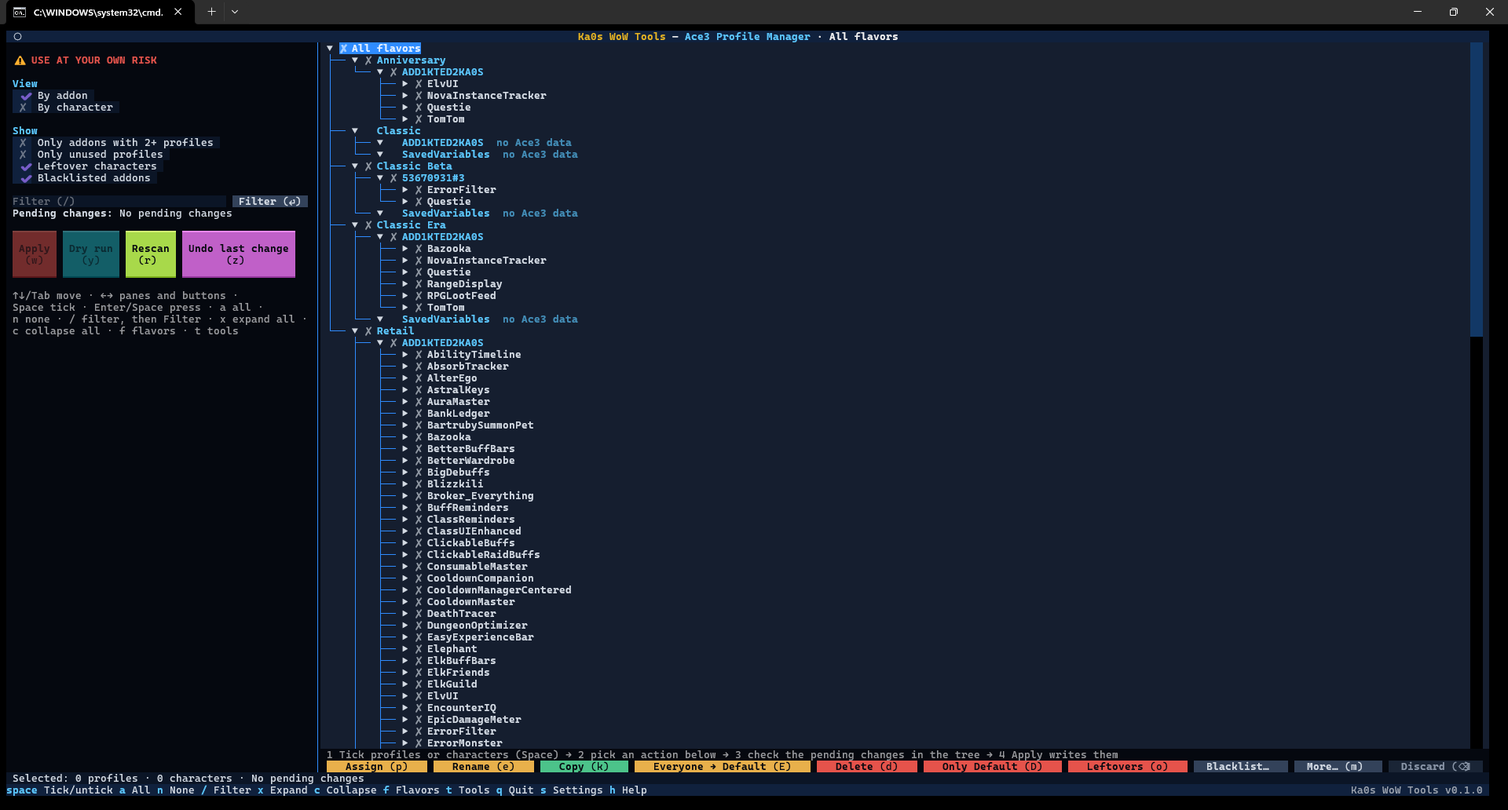
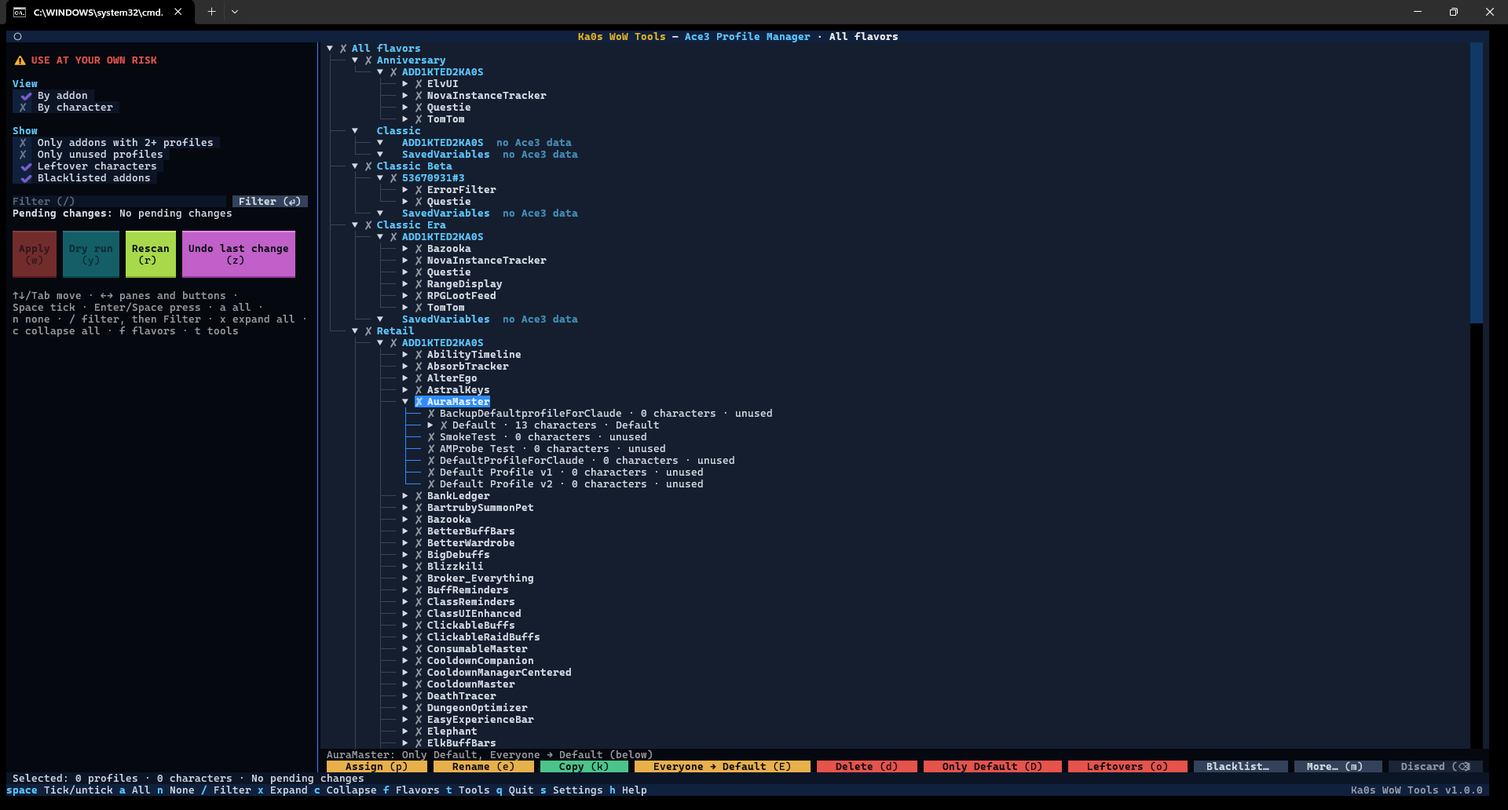
release: v1.0.0
Claude-Session: https://claude.ai/code/session_01DkzYWY5gDgShiN2PKv2P43

diff --git a/wowtools/__init__.py b/wowtools/__init__.py
@@ -1,4 +1,4 @@
 """Ka0s WoW Tools: out-of-game companion tools for World of Warcraft."""
 from __future__ import annotations
 
-__version__ = "0.1.0"
+__version__ = "1.0.0"

diff --git a/CHANGELOG.md b/CHANGELOG.md
@@ -4,133 +4,7 @@ Every change to Ka0s WoW Tools that you'd notice, newest first. The format follo
 [Keep a Changelog](https://keepachangelog.com/en/1.1.0/), and version numbers follow
 [Semantic Versioning](https://semver.org/).
 
-## [Unreleased]
-
-### Added
-
-- **WTF Cleaner** and **Ace3 Profile Manager**
-  - Before the first scan they ask you to accept a **USE AT YOUR OWN RISK** warning, like the Saved Variables
-    Browser: it says what the tool deletes or rewrites, that a backup and Undo are there, and to close WoW first.
-    **I understand** goes on, **Back** returns to the game versions. It's asked once each time you start the app.
-  - A blacklisted addon's lines show `⊘` where the tick goes, greyed like the line, so you can see why they have no
-    tick. In the Ace3 Profile Manager that's in both views, By addon and By character.
-- **Every tool**
-  - `t` goes back to the tool menu from any screen and any popup, like `q` quits: the game version and account
-    pickers, the help, the changelog, the settings, the warnings, the USE AT YOUR OWN RISK warning (it asks again
-    next time) and every "are you sure?" window, not only reviews and results.
-    Typing `t` in a text box still types it, a run that is writing files has to finish first, and with changes
-    staged but not applied it asks first. On the tool menu it does nothing. `Esc` still works as before.
-- **WTF Cleaner**, **Ace3 Profile Manager** and **Saved Variables Browser**
-  - The **USE AT YOUR OWN RISK** warning has a **Don't show this warning again for this tool** box (`Tab` to it,
-    `Space` to tick, `Enter` still means **I understand**). Ticked with **I understand**, the warning is never
-    shown again for that tool; **Back** never saves it. **Show the USE AT YOUR OWN RISK warning** in the tool's
-    settings (`s`) turns it back on.
-
-### Changed
-
-- **Docs**
-  - The release zip holds only what you need to run the app and read about it: the program, its libraries, the
-    launchers, the README, the changelog, the license and the five guides with their pictures. The developer
-    documentation, tests and scripts stay on GitHub, and the README no longer has a section for developers.
-  - New screenshots of every tool: the README shows the tool menu, the general settings, the USE AT YOUR OWN RISK
-    warning and each tool's review screen, and each tool's guide shows its review screen, its confirm or progress window
-    and its results.
-  - The README, every guide and the in-app help now match the app: when the USE AT YOUR OWN RISK warning appears
-    (after you pick a game version and account, before the first scan), what a WTF Cleaner **Dry run** does and
-    skips, `t` and `Esc` on every screen, the settings as the settings screen names them, and where the backups
-    go. The WTF Cleaner guide has a section on the warning, and the help on the tool menu explains it and the
-    **lime** Rescan button.
-- **The app**
-  - `q` quits from any screen and any popup: the game version and account pickers, the help, the changelog, the
-    settings, the warnings and every "are you sure?" window, not only the tool menu, reviews and results. On the
-    help and the changelog `q` used to go back; `Esc` still does. Typing `q` in a text box still types it, a run
-    that is writing files still has to finish first, and with changes staged but not applied it asks first.
-    While any "discard your changes?" question is open, `q` waits for your answer instead of asking again.
-- **Ace3 Profile Manager**
-  - The **Apply** and **Dry run** confirms no longer print one red line per addon warning (28 lines could push
-    **Yes** and **No** off the window): the warnings sit under one line, **⚠ 28 warnings (Space or click to
-    expand)**. Open it (`Tab` to it, then `Space`, `Enter` or a click) to see each warning once, with the game
-    version and account under it, then the addons; `x` opens everything and the list scrolls inside the window.
-    The **Notes** box after a change lists its notes the same way (one or two notes show at once), and what a
-    change could not do is a **Not done** box listed the same way, every addon in it (it was a notification cut
-    at 8 lines). Two databases of one addon, or a character's own file, are told apart in these lists.
-  - **Leftovers** (`o`) is now one press: it ticks every leftover character the tree shows, then asks to remove
-    them, listing them under each addon. There's no need to tick them first. **No** keeps the ticks; with none
-    shown it says so and changes nothing.
-  - The **Delete** and **Assign** windows list what they change under one line, such as **12 profiles (Space or
-    click to expand)**, instead of one line per addon (82 addons made a long list to scroll past). Open it to see
-    each addon with its profiles or characters; the profile list, the name box and the buttons stay on screen.
-- **Interface Backup**
-  - Backups and safety backups now go into a `backup` folder inside `interface-backup`, next to `journal`, instead
-    of sitting loose beside it. Zips made by an earlier version are moved there once, the first time you open
-    the review. A zip that can't be moved (its name is already taken there, or the move fails) stays where it is
-    and is listed, restored and cleaned up as before. The log says so once per session, and the move is tried
-    again each time the review scans. **Undo** of an earlier restore finds its safety backup in the new folder.
-- **Saved Variables Browser**
-  - The **USE AT YOUR OWN RISK** warning is asked once each time you start the app, no longer every time you open
-    the tool. **Back** still doesn't count: it asks again next time.
-
-### Fixed
-
-- **Screenshot Organizer**
-  - The scan progress shows as soon as you pick the game version, starting with "Checking the destination
-    folder". A slow or sleeping destination drive no longer freezes an empty screen for a few seconds. A
-    destination that isn't allowed is reported as before.
-- **The app**
-  - Messages that pop up at the bottom right now start at the same place on every screen, just above the bars at
-    the bottom (and above the action bar under a tree), and several stack upward without covering each other. The
-    Ace3 Profile Manager's "what this button would do" box is the lowest of that stack, so a message no longer
-    lands on top of it. On a popup they start above its buttons, text box, tick box or list, so a message never
-    covers what you're about to press or type into.
-  - Scanning or rescanning no longer moves the bars under the tree to the top of the pane: the Ace3 Profile
-    Manager's guide and action bar, and the Saved Variables Browser's action bar, stay at the bottom while the scan
-    runs. When a scan fails, its message takes one line at the bottom (the notice shows it in full), so a long
-    error doesn't push the bars up either.
-  - Pressing Ctrl+C while `wow-tools update` (or an automatic update at start) is replacing a zip install's files
-    now puts the version you had back instead of leaving it half replaced, and says the update stopped. Any other
-    unexpected error while backing up or replacing the files is reported instead of crashing, and a half-done
-    replace is rolled back the same way. If putting it back fails too, the message names the folder your previous
-    version is saved in, and an automatic update then quits instead of opening the menu. A Ctrl+C after the new
-    version is in place (while old backups are tidied up) no longer reports the update as stopped.
-  - When the app cannot start because a folder in `logs/` can't be read, it no longer leaves its lock behind, so
-    the next start doesn't warn that another copy may be running. An unreadable log folder is now skipped instead.
-  - When your WoW folder's path has letters like é or ü and WoW is running, an Apply or Undo now refuses with the
-    usual "WoW is running" message instead of stopping with an unexpected error.
-  - Every file the app writes in place (a SavedVariables file, a settings file, an unfinished-change reminder) is
-    now flushed to the disk before it replaces the old one. A power cut or a system crash right after an Apply,
-    an Undo or a settings change leaves the old file or the new one, never an empty file. Each Undo journal line
-    and each safety backup zip is flushed the same way before the change it covers. So is a screenshot copied to
-    another drive, before its original is deleted, and a file a WTF Cleaner Undo puts back.
-  - The README, every tool's guide and the message about a release with no checksum now say that comments you
-    add to a settings file in `config` aren't kept: the app rewrites the file whenever it saves a setting or the
-    game version you pick. Edit these files with the app closed.
-- **WTF Cleaner**
-  - The result of a clean across several game versions names the run journal once, above the game versions, with
-    the hint that **Undo last clean** puts the files back. It was listed again in every game version's block.
-  - Looking up the clean **Undo** can put back, and the "An earlier clean did not finish" check, no longer hold
-    the screen before the scan shows.
-  - A file WoW rewrites while a clean is backing up the WTF folder is now kept (shown as changed since the scan)
-    instead of deleted, so its newer data is never lost.
-  - When another program (a virus scanner or OneDrive) keeps the cleaner from removing its marker file after a
-    clean that finished, the result now says so (a **Crash marker** row), and the next start's "An earlier clean
-    did not finish" message says such a clean needs nothing restored. **Dismiss** on that message now tells you
-    when it could not remove the file either, instead of closing as if it had while new cleans stay refused.
-- **Interface Backup**
-  - On Windows, **Undo** after a restore that removed a symlinked addon folder now makes the symlink again to
-    the path it had (`C:\...`), not to the same path written with a `\\?\` prefix. The Undo journal records
-    the path as you made it, too. A link to a mounted volume that **Undo** cannot make again is now listed as one
-    to make by hand, instead of being made to the wrong place.
-- **Ace3 Profile Manager and Saved Variables Browser**
-  - **Put the originals back** after an unfinished change now works when you run the app from the other system
-    (Windows or WSL) than the one the change was started from: the files are found in the WoW folder you set. If
-    that game version is not in your WoW folder, nothing is changed and the unfinished change is still offered,
-    instead of every file being reported as gone and the reminder cleared.
-  - When another program (a virus scanner or OneDrive) keeps the app from removing its unfinished-change reminder
-    after an Apply that finished, the result now says so, and **Put the originals back** on the next scan only
-    removes the reminder instead of undoing the finished change. If the reminder still can't be removed then, or
-    after **Leave as is**, a notice says so instead of reporting it removed.
-
-## [0.1.0] - 2026-10-05
+## [1.0.0] - 2026-10-09
 
 The first version: five tools in one app.
 
@@ -142,10 +16,22 @@ The first version: five tools in one app.
     Mac, Linux and WSL.
   - Notices a running WoW for the game versions you're working on, on every platform (Windows, WSL, Mac and
     Linux), and warns you or waits before touching files WoW rewrites.
-  - Checks for updates and installs them for you. Older backups of replaced versions are deleted, but files you
-    had added inside the app's own folders are moved to `update-leftovers` first.
+  - Checks for updates and installs them for you. Updating a zip install replaces only what a release ships: the
+    `scripts` folder and anything else no release has are yours and left alone, and the old version is kept in
+    `.update-backup`. Older backups of replaced versions are deleted, but files you had added inside the app's own
+    folders are moved to `update-leftovers` first.
+  - An update stopped with Ctrl+C, or one that hits an unexpected error while it backs up or replaces the files,
+    puts the version you had back and says the update stopped. If putting it back fails too, the message names the
+    folder your previous version is saved in, and an automatic update quits instead of opening the menu.
   - How many backups and journals to keep is one setting for every tool (10 each; 0 backups keeps them all), on
     the first settings screen.
+  - The settings files in `config` are rewritten whenever the app saves a setting or the game version you pick, so
+    comments you add to them aren't kept. Edit these files with the app closed.
+  - Every file the app writes in place (a SavedVariables file, a settings file, an unfinished-change reminder) is
+    flushed to the disk before it replaces the old one, so a power cut or a system crash right after an Apply, an
+    Undo or a settings change leaves the old file or the new one, never an empty file. Each Undo journal line and
+    each safety backup zip is flushed the same way before the change it covers. So is a screenshot copied to
+    another drive, before its original is deleted, and a file a WTF Cleaner Undo puts back.
   - `x` expands and `c` collapses every line of a tree, on every tree screen.
   - `/` filters every tree: type part of a name (an addon, a file, a date, a profile…), press `Enter` or the
     **Filter** button beside the box, and the tree keeps the matching lines and the groups they're in. Typing
@@ -161,8 +47,17 @@ The first version: five tools in one app.
   - Buttons are coloured by what they do, the same in every tool: red deletes, amber overwrites, green adds
     something new, violet undoes, cyan is a dry run, blue confirms, grey moves between screens, dim grey backs out.
   - `h` opens a help screen everywhere: on the tool menu it explains the app (what each tool does, the keys every
-    tool shares, settings, button colours); in a tool it explains that tool, step by step, with every button and
-    its key, the safety nets and a link to the tool's guide. `Esc`, `q` or `h` closes it.
+    tool shares, settings, button colours, the USE AT YOUR OWN RISK warning and the **lime** Rescan button); in a
+    tool it explains that tool, step by step, with every button and its key, the safety nets and a link to the
+    tool's guide. `Esc` or `h` closes it.
+  - `q` quits from any screen and any popup: the tool menu, the game version and account pickers, the help, the
+    changelog, the settings, the warnings, reviews, results and every "are you sure?" window. Typing `q` in a text
+    box types it, a run that is writing files has to finish first, and with changes staged but not applied it asks
+    first. While any "discard your changes?" question is open, `q` waits for your answer.
+  - `t` goes back to the tool menu from any screen and any popup the same way: the game version and account
+    pickers, the help, the changelog, the settings, the warnings, the USE AT YOUR OWN RISK warning (it asks again
+    next time), every "are you sure?" window, reviews and results. On the tool menu it does nothing. `Esc` goes
+    back one step.
   - Every button shows its key under its name (**Clean** over `(w)`), and the row of keys along the bottom lists
     only the keys no button has, so it stays short; while a popup is open it is empty, since the popup's buttons
     say what to press.
@@ -190,9 +85,19 @@ The first version: five tools in one app.
     and **Back** (`Esc`).
   - `b` on a tree line puts the highlighted addon (or the addon a file or profile belongs to) on the tool's
     blacklist, or takes it off, in the tools that keep one (the WTF Cleaner and the Ace3 Profile Manager), and says
-    which ("ElkBuffBars (Retail) is now on the blacklist."). Each tool keeps its own list.
+    which ("ElkBuffBars (Retail) is now on the blacklist."). Each tool keeps its own list. A blacklisted addon's
+    lines show `⊘` where the tick goes, greyed like the line, so you can see why they have no tick.
   - `c` on the tool menu opens the changelog: every version on the left (yours marked "current"), its notes on the
     right.
+- **WTF Cleaner**, **Ace3 Profile Manager** and **Saved Variables Browser**
+  - After you pick a game version and account, and before the first scan, each asks you to accept a **USE AT YOUR
+    OWN RISK** warning: it says what the tool deletes or rewrites, that a backup and Undo are there, and to close
+    WoW first. **I understand** goes on, **Back** returns to the game versions and asks again next time. It's asked
+    once per tool each time you start the app.
+  - The warning has a **Don't show this warning again for this tool** box (`Tab` to it, `Space` to tick, `Enter`
+    still means **I understand**). Ticked with **I understand**, the warning is never shown again for that tool;
+    **Back** never saves it. **Show the USE AT YOUR OWN RISK warning** in the tool's settings (`s`) turns it back
+    on.
 - **WTF Cleaner**
   - Finds settings left behind by addons you no longer use, shows them for review, backs them up and deletes them.
   - Works on one game version, one account or **All flavors**.
@@ -203,10 +108,17 @@ The first version: five tools in one app.
     account with no characters counts every addon as enabled).
   - **Clean** is on `w`.
   - A blacklist of addons it never cleans, one game version each: `b` on an addon's line (or one of its files) adds
-    it or takes it off. Blacklisted addons stay in the review, greyed and tagged "blacklisted", but are never
-    ticked, counted or cleaned. The list is `[wtf_cleaner] blacklist` in `config\wtf-cleaner.cfg`
+    it or takes it off. Blacklisted addons stay in the review, greyed, tagged "blacklisted" and marked `⊘`, but are
+    never ticked, counted or cleaned. The list is `[wtf_cleaner] blacklist` in `config\wtf-cleaner.cfg`
     (`_retail_:ElkBuffBars, ...`; a name without a game version means every one).
-  - **Dry run** and **Undo last clean**.
+  - **Dry run** and **Undo last clean**. The result of a clean names its run journal, with the hint that **Undo last
+    clean** puts the files back.
+  - A file WoW rewrites while a clean is backing up the WTF folder is kept (shown as changed since the scan), not
+    deleted, so its newer data is never lost.
+  - When another program (a virus scanner or OneDrive) keeps the cleaner from removing its marker file after a
+    clean that finished, the result says so (a **Crash marker** row), and the next start's "An earlier clean did
+    not finish" message says such a clean needs nothing restored. **Dismiss** on that message tells you when it
+    could not remove the file either.
   - The zips of the files each clean removed are kept forever unless you set how many to keep per game version
     (**Cleaned-files zips to keep** in its settings; 0, the default, keeps them all).
 - **Screenshot Organizer**
@@ -215,22 +127,38 @@ The first version: five tools in one app.
 - **Interface Backup**
   - Zips each game version's `Interface` and `WTF` folders (your addons and their settings) into one dated,
     checked zip, and keeps the newest backups per game version (see the retention setting under "The app").
+  - Backups and safety backups go into a `backup` folder inside `interface-backup`, next to `journal`.
   - Restores a backup exactly: the `Interface` folder, the `WTF` folder or both, after listing what would be
     removed or changed. It takes a safety backup first, and **Undo** puts the folders back.
   - Never follows linked addon folders (symlinks, junctions): they're left out of backups and kept by a restore.
+    When the backup holds real files in a link's place, the restore removes the link (never what it points at) and
+    **Undo** makes it again to the path it had (on Windows, `C:\...` as you made it); a link to a mounted volume
+    that **Undo** cannot make again is listed as one to make by hand.
   - Backing up several game versions: one that fails never stops the others, and the results list each one.
 - **Ace3 Profile Manager**
   - Shows every Ace3 addon's profiles and which characters use them.
-  - Deletes, renames and copies profiles, moves characters between them and removes characters that no longer
-    exist.
+  - Deletes, renames and copies profiles and moves characters between them.
+  - **Leftovers** (`o`) removes characters that no longer exist in one press: it ticks every leftover character
+    the tree shows, then asks to remove them, listing them under each addon. **No** keeps the ticks; with none
+    shown it says so and changes nothing.
   - A blacklist (per game version, picked from a tree, or `b` on an addon in the review) keeps addons out of its
-    reach. When the filter hides ticked addons, **Save** says how many and asks first.
+    reach. A blacklisted addon shows `⊘` in both views, By addon and By character. When the filter hides ticked
+    addons, **Save** says how many and asks first.
   - Changes wait as **pending changes** until you apply them; an action bar and a guidance line under the tree say
     what to do next.
+  - The **Delete** and **Assign** windows list what they change under one line, such as **12 profiles (Space or
+    click to expand)**. Open it to see each addon with its profiles or characters; the profile list, the name box
+    and the buttons stay on screen.
+  - The **Apply** and **Dry run** confirms put the addon warnings under one line, **⚠ 28 warnings (Space or click
+    to expand)**, so **Yes** and **No** stay in the window. Open it (`Tab` to it, then `Space`, `Enter` or a click)
+    to see each warning once, with the game version and account under it, then the addons; `x` opens everything
+    and the list scrolls inside the window. The **Notes** box after a change lists its notes the same way (one or
+    two notes show at once), and what a change could not do is a **Not done** box listed the same way, every addon
+    in it. Two databases of one addon, or a character's own file, are told apart in these lists.
   - Edits only the lines that change in each settings file, after backing up the whole `WTF` folder and every file
     it edits, and refuses while WoW is running.
   - **Dry run** and **Undo last change**.
-- **Saved Variables Browser** (use at your own risk)
+- **Saved Variables Browser**
   - Shows every SavedVariables file of every game version, account and character as a tree you can open down to
     single values; a file is only read when you open it, and a big table shows its first 500 entries.
   - Edits a value (string, number or boolean), renames a key or deletes a key (a whole table with it); a top-level
@@ -245,10 +173,27 @@ The first version: five tools in one app.
   - Edits wait as staged changes until you apply them.
   - Changes only the bytes you edited, after backing up the whole `WTF` folder and every file it edits, checks each
     new file before writing it, and refuses while WoW is running. **Dry run** and **Undo last change**; a change
-    cut short (a crash, a power cut) can be put back.
-  - Asks you to accept a USE AT YOUR OWN RISK warning each time you open it, and repeats it on every Apply and Undo.
-- **Shared SavedVariables library**
-  - The SavedVariables reader and the safe write pipeline (backups, journal, Undo, recovery) the Ace3 Profile
-    Manager used are now shared by both tools; the Ace3 Profile Manager works as before.
-  - Strings with a backslash before a character Lua 5.1 doesn't treat as an escape (`\x41`, `\z`) are now read the
-    way WoW reads them.
+    cut short (a crash, a power cut) can be put back. Every Apply and Undo repeats the USE AT YOUR OWN RISK
+    warning.
+- **Ace3 Profile Manager** and **Saved Variables Browser** (one SavedVariables library)
+  - Both tools share one SavedVariables reader and one safe write pipeline: backups, journal, Undo and recovery.
+  - Strings with a backslash before a character Lua 5.1 doesn't treat as an escape (`\x41`, `\z`) are read the way
+    WoW reads them.
+  - **Put the originals back** after an unfinished change works when you run the app from the other system
+    (Windows or WSL) than the one the change was started from: the files are found in the WoW folder you set. If
+    that game version is not in your WoW folder, nothing is changed and the unfinished change is still offered.
+  - When another program (a virus scanner or OneDrive) keeps the app from removing its unfinished-change reminder
+    after an Apply that finished, the result says so, and **Put the originals back** on the next scan only removes
+    the reminder, leaving the finished change alone. If the reminder still can't be removed then, or after
+    **Leave as is**, a notice says so.
+  - **Undo** only backs up game version folders inside your WoW folder, and only writes its zip inside the backup
+    folder, even from a damaged journal.
+- **Docs**
+  - Screenshots of every tool: the README shows the tool menu, the general settings and each tool's review screen,
+    and each tool's guide shows its review screen, its confirm or progress window and its results.
+  - The README, every guide and the in-app help match the app: when the USE AT YOUR OWN RISK warning appears, what
+    a WTF Cleaner **Dry run** does and skips, `t` and `Esc` on every screen, the settings as the settings screen
+    names them, and where the backups go. The WTF Cleaner guide has a section on the warning.
+  - The release zip holds only what you need to run the app and read about it: the program, its libraries, the
+    launchers, the README, the changelog, the license and the five guides with their pictures. The developer
+    documentation, tests and scripts are on GitHub.

diff --git a/README.md b/README.md
@@ -1,6 +1,6 @@
 # Ka0s WoW Tools
 
-![Version](https://img.shields.io/badge/Version-0.1.0-blue)
+![Version](https://img.shields.io/badge/Version-1.0.0-blue)
 ![Python](https://img.shields.io/badge/Python-3.10%2B-yellow)
 ![Platforms](https://img.shields.io/badge/Platforms-Windows_%7C_macOS_%7C_Linux-purple)
 ![Tests](https://img.shields.io/badge/Tests-1925_passing%2C_2_skipped-green)
